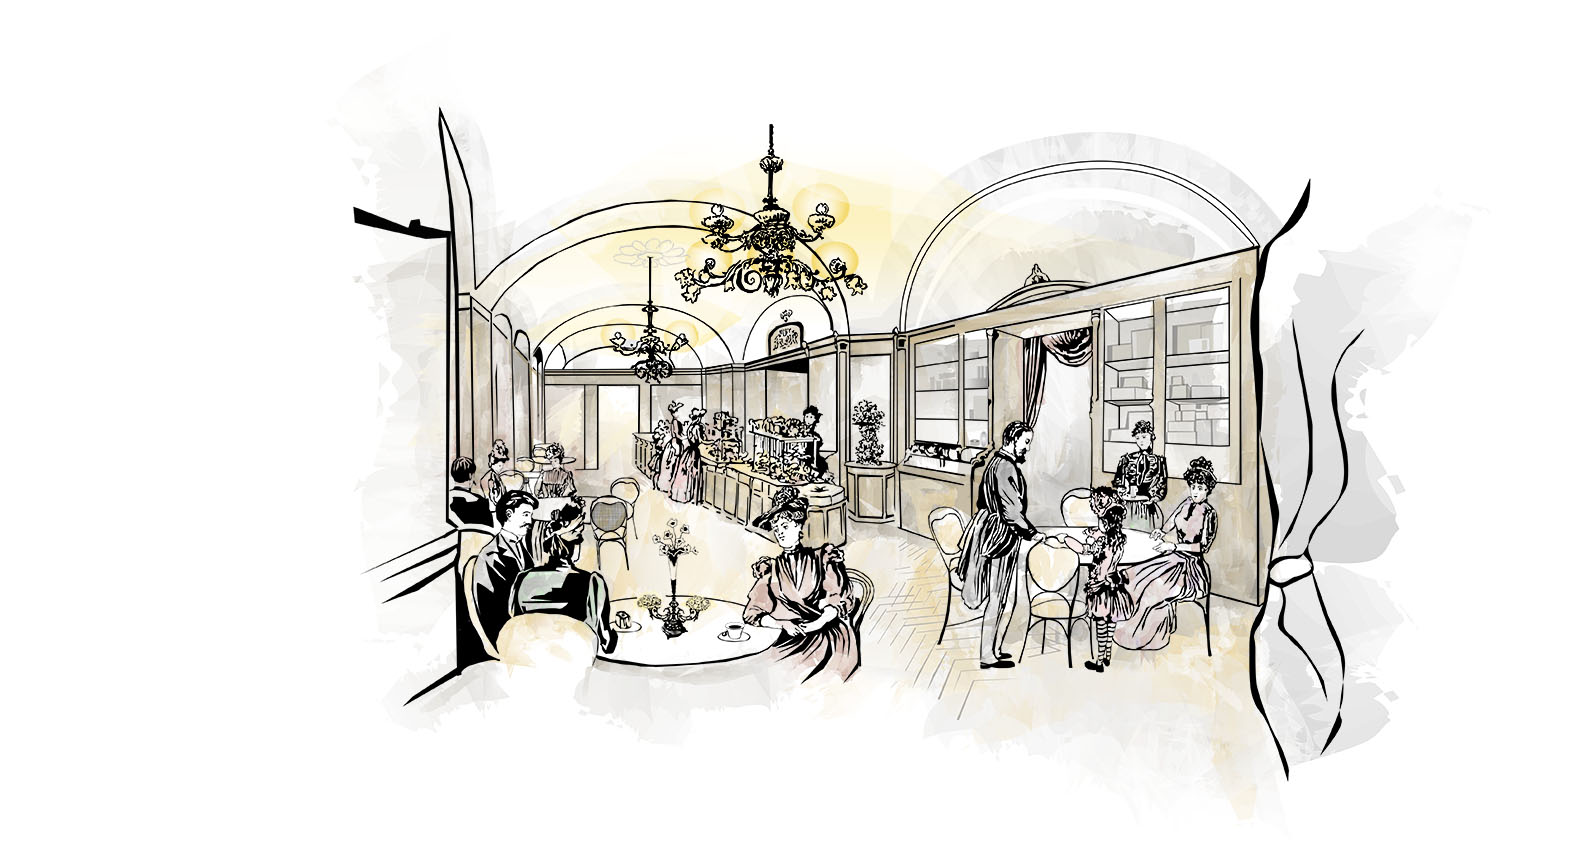
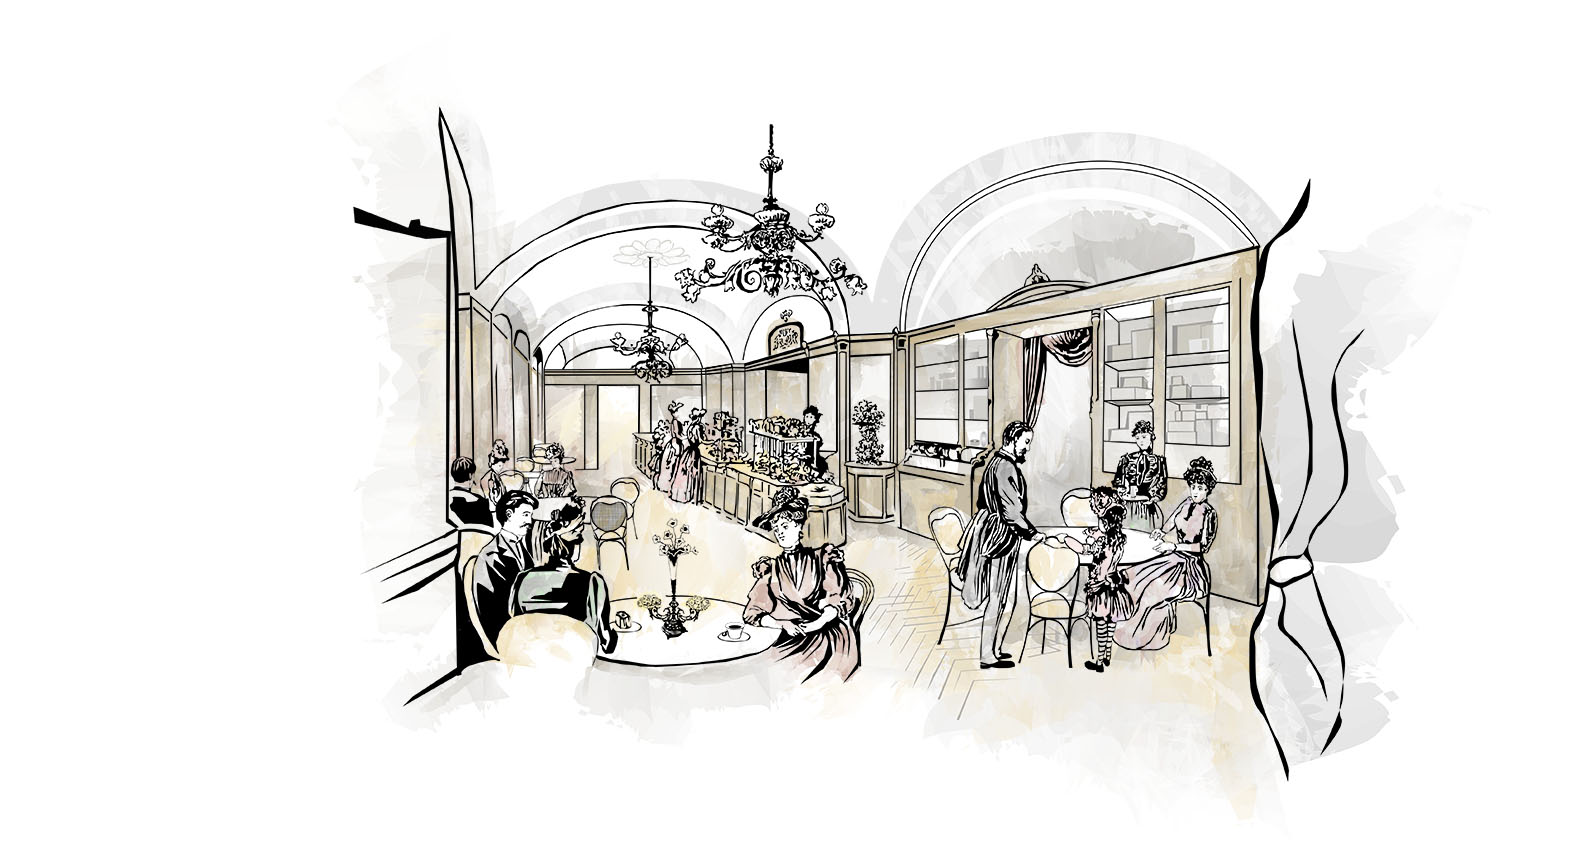
fenyek

Changed region(s): [[0.3101, 0.1559, 0.6203, 0.4365], [0.6823, 0.2806, 0.7443, 0.3118]]

diff --git a/css/style.css b/css/style.css
@@ -8,10 +8,10 @@ html, body, div, span, applet, object, iframe,h1, h2, h3, h4, h5, h6, p, blockqu
 		url('../fonts/bahnschrift.ttf') format('truetype'),
 		url('../fonts/bahnschrift.svg#Bahnschrift') format('svg')
 }
-.effect {animation: luktet 2s linear infinite;}
+.effect {animation: luktet 4s linear infinite;}
 @keyframes luktet {
-100% {opacity: 1;}
-50% {opacity: .5;}
+0% {opacity: 1;}
+50% {opacity: .1;}
 100% {opacity: 1;}
 }
 html {
@@ -495,6 +495,13 @@ background-color: aqua;
 }
 /* AKTíV ELEMEK */
 /* 2-Cukrászműhely */
+#cukraszmuhelyfenyek {
+	width:200px;
+	height:95px;
+	position:absolute;
+	top:280px;
+	left:787px
+}
 #szurkefickok {
 	width:285px;
 	height:96px;
@@ -555,11 +562,11 @@ background-color: aqua;
 /* AKTíV ELEMEK */
 /* 3-Cukrászda */
 #cukifenyek {
-	width:798px;
-	height:228px;
+	width:746px;
+	height:200px;
 	position:absolute;
-	top:157px;
-	left:458px
+	top:159px;
+	left:452px
 }
 #cukivirag {
 	width:62px;
@@ -937,8 +944,6 @@ background-color: aqua;
 	font-weight:400;
     background: white;
 	z-index: 100;
-}
-.kor-terkep {
 }
 .popupMap {
     position: absolute;

diff --git a/cukraszda.html b/cukraszda.html
@@ -37,6 +37,8 @@
 			<div id="hun" onmouseover="this.style.cursor='pointer';" onclick="window.location.href='cukraszmuhely.html'"
 				style="cursor: pointer;"></div>
 
+			<img id="cukifenyek" class="effect" src="images/cukifenyek_aktiv.png" width="743" height="202">
+
 			<a href=""><img id="cukivirag" src="images/cukivirag_aktiv.png" width="61" height="62"></a>
 
 			<a href=""><img id="cukidoboz" src="images/cukidoboz_aktiv.png" width="62" height="62"></a>

diff --git a/cukraszmuhely.html b/cukraszmuhely.html
@@ -51,6 +51,8 @@
 			<div id="info" title="történetek" onmouseover="this.style.cursor='pointer';"
 				onclick="window.location.href='#'" style="cursor: pointer;"></div>
 
+			<img id="cukraszmuhelyfenyek" class="effect" src="images/cukraszmuhelyfenyek_aktiv.png" width="200" height="95">
+
 			<img id="bubi-2" src="images/szurkefickok_bubi.png" width="493" height="163">
 
 			<a href="#">
